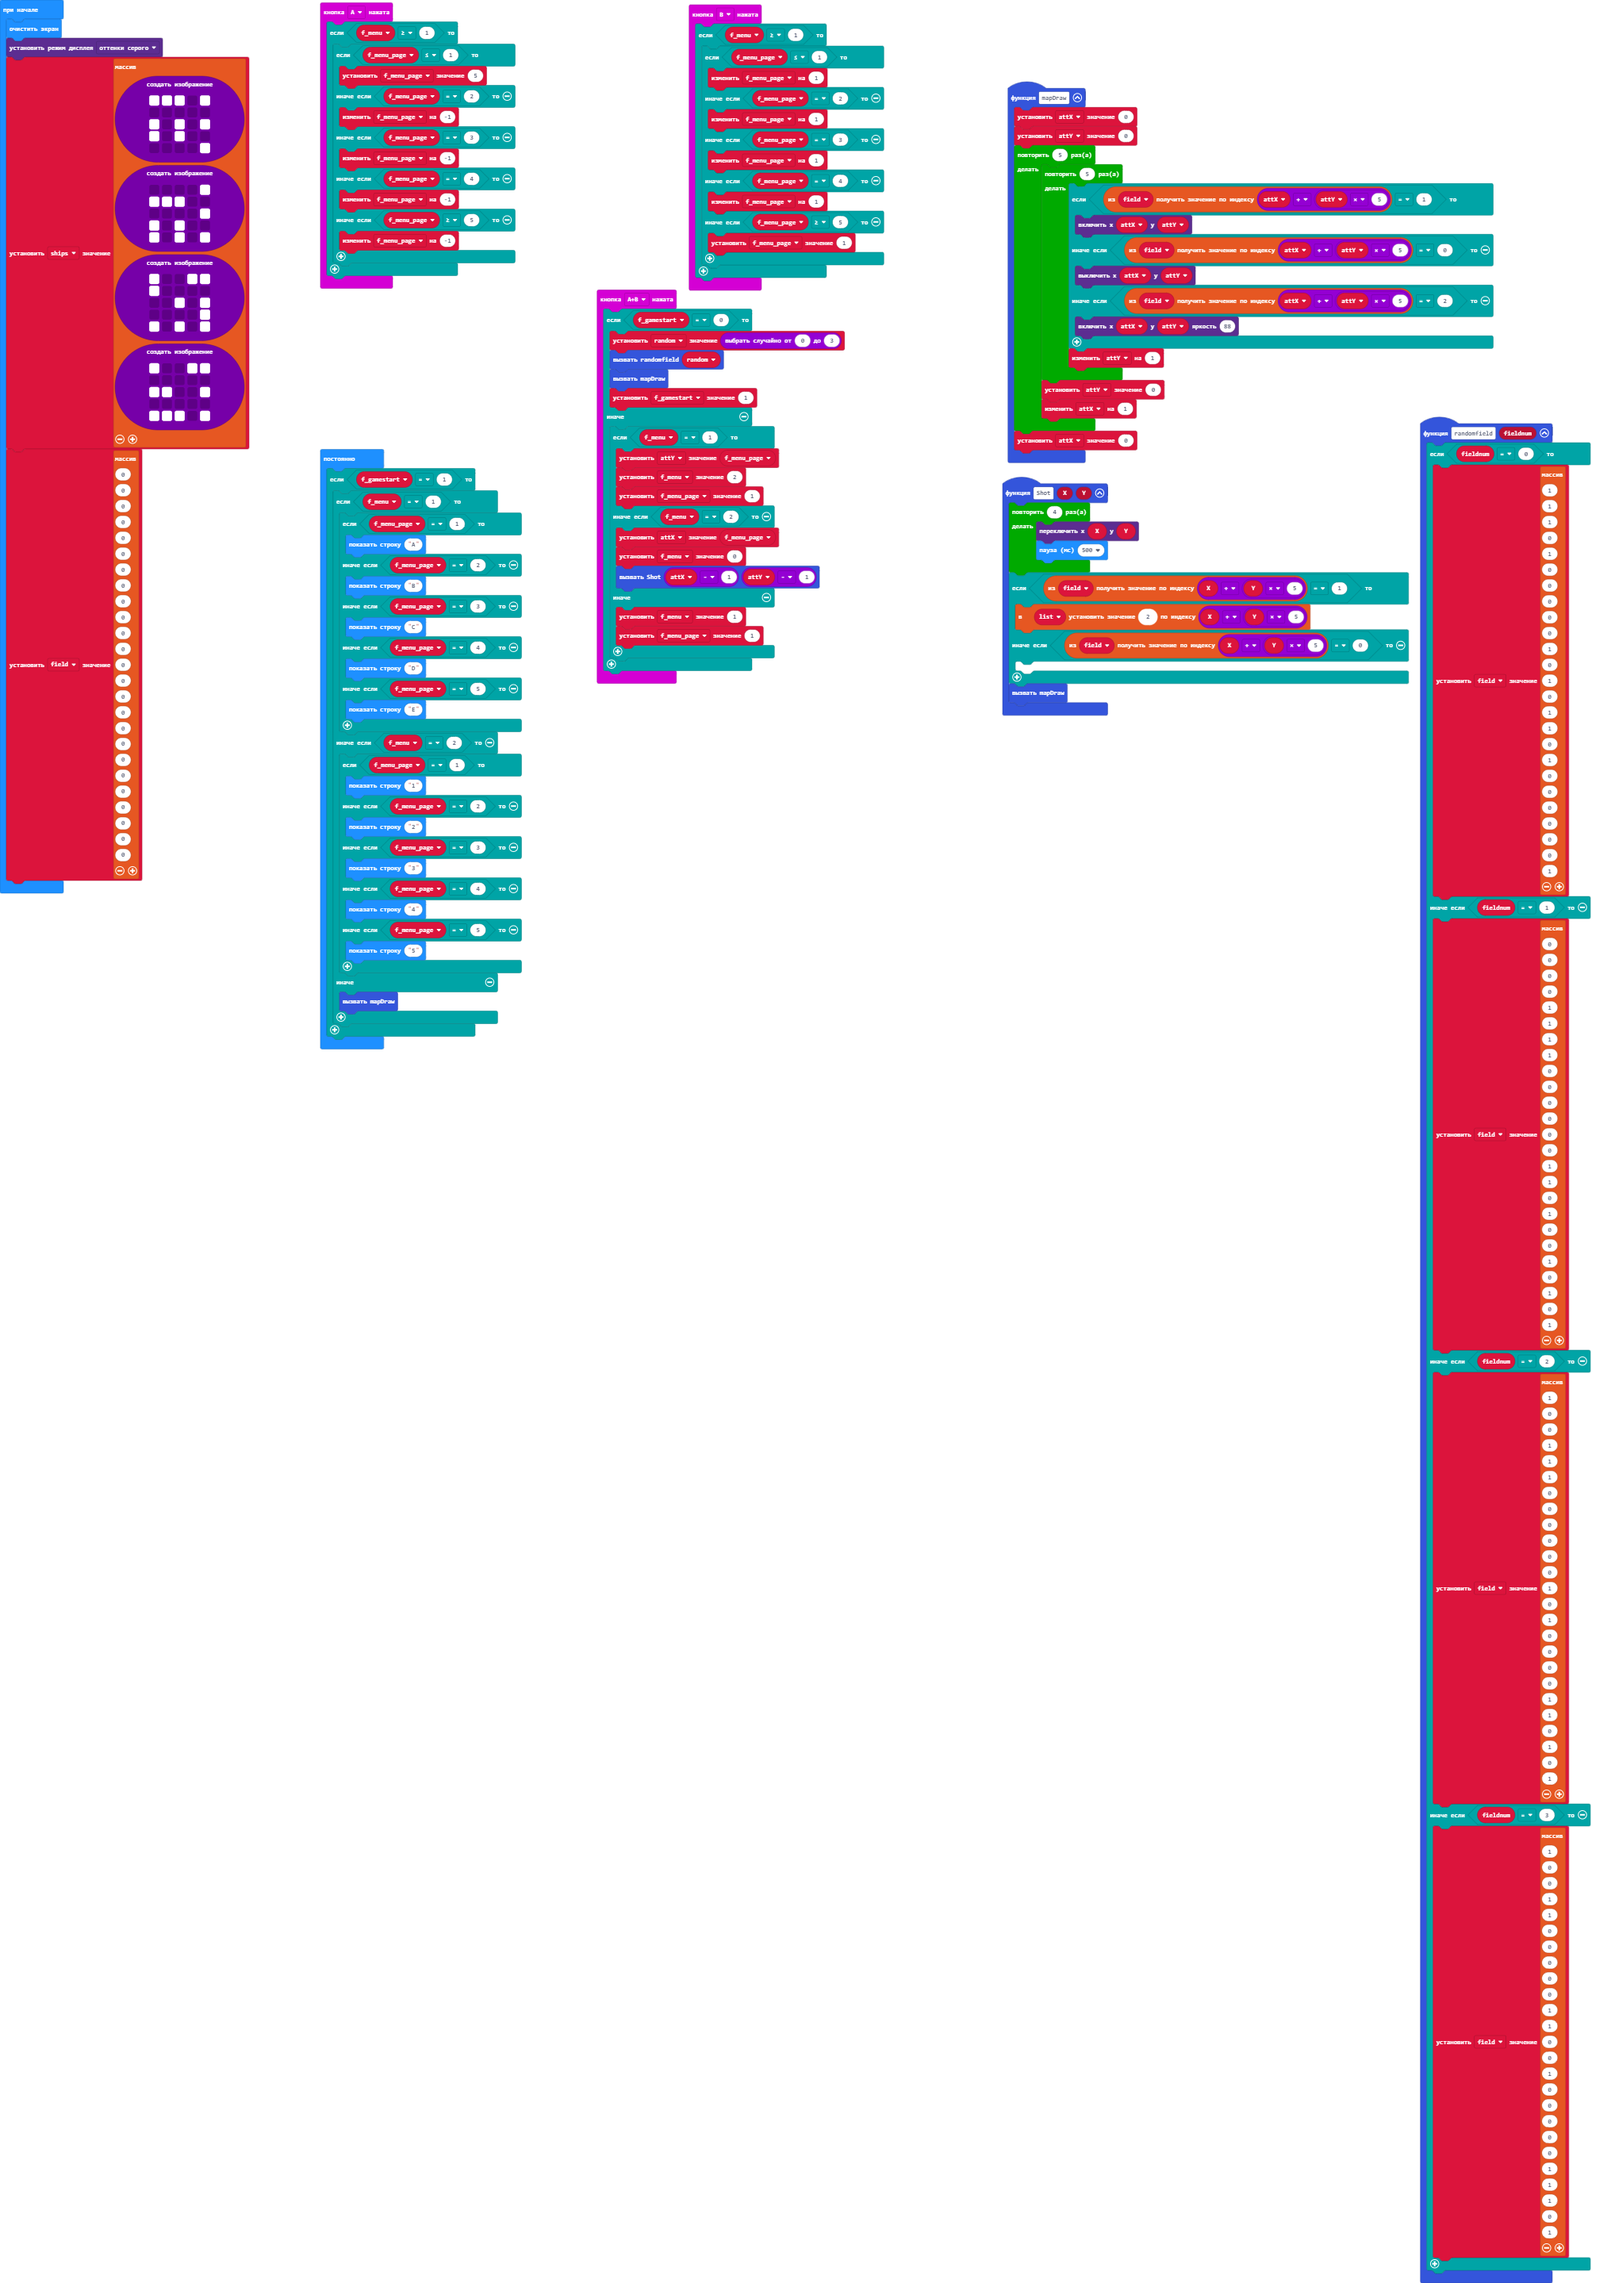
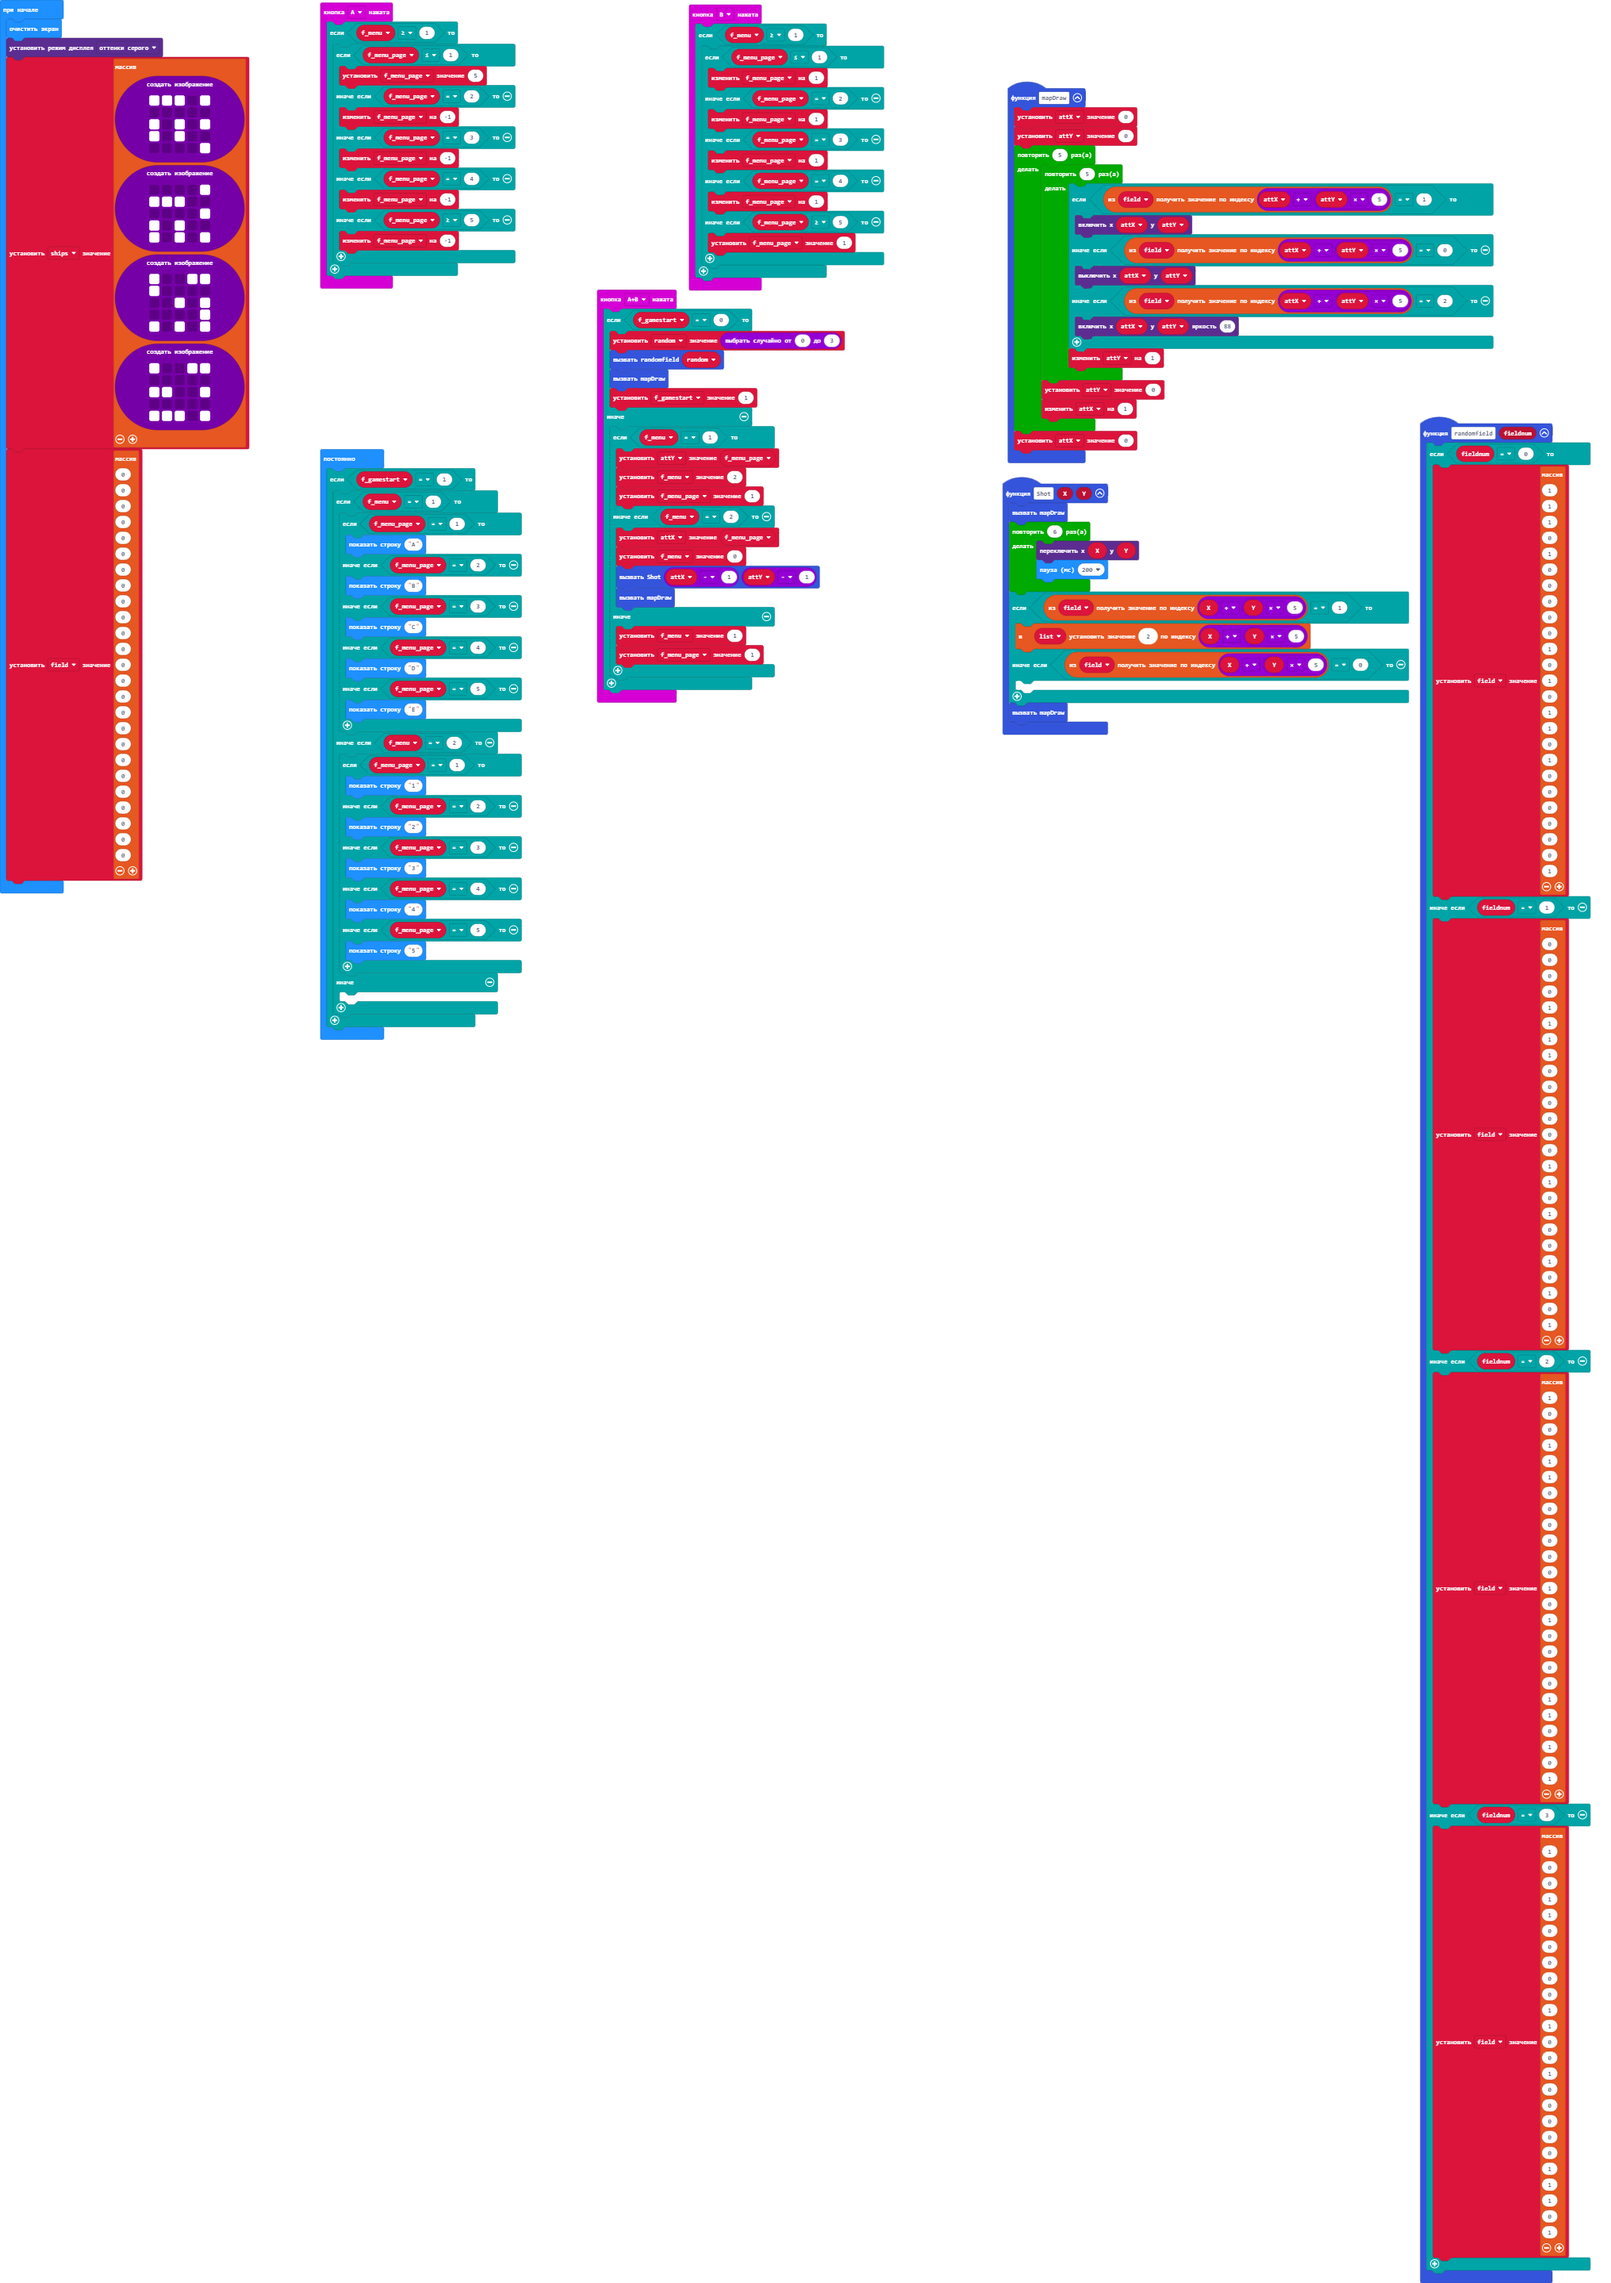
Upd 2.3

Changed region(s): [[0.6204, 0.2165, 0.8996, 0.3402], [0.3722, 0.2474, 0.4963, 0.3092], [0.1861, 0.4329, 0.3102, 0.4639]]

diff --git a/main.ts b/main.ts
@@ -129,9 +129,10 @@ input.onButtonPressed(Button.A, function () {
     }
 })
 function Shot (X: number, Y: number) {
-    for (let index = 0; index < 4; index++) {
+    mapDraw()
+    for (let index = 0; index < 6; index++) {
         led.toggle(X, Y)
-        basic.pause(500)
+        basic.pause(200)
     }
     if (field[X + Y * 5] == 1) {
         let list: number[] = []
@@ -156,6 +157,7 @@ input.onButtonPressed(Button.AB, function () {
             attX = f_menu_page
             f_menu = 0
             Shot(attX - 1, attY - 1)
+            mapDraw()
         } else {
             f_menu = 1
             f_menu_page = 1
@@ -289,7 +291,7 @@ basic.forever(function () {
                 basic.showString("5")
             }
         } else {
-            mapDraw()
+        	
         }
     }
 })
